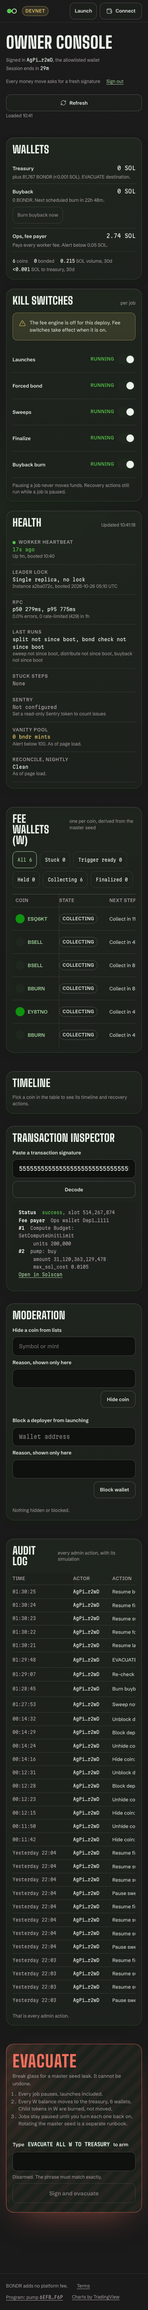
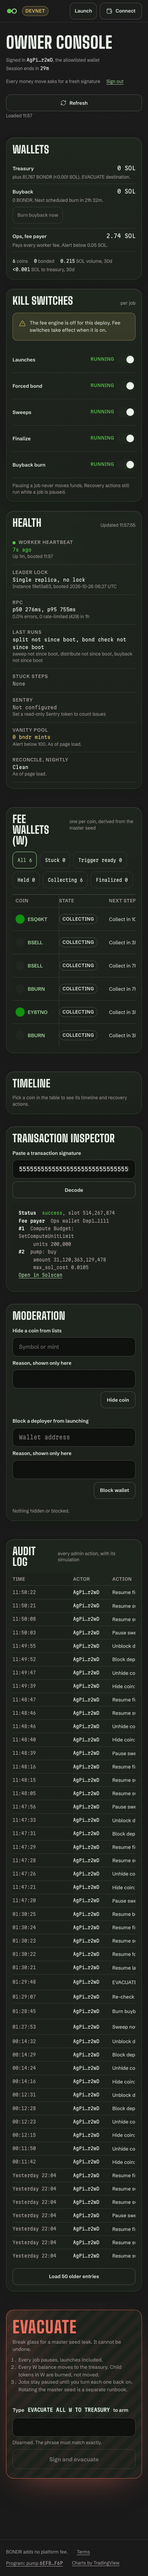
test(06-review): wait for the first health answer before arming EVACUATE; refresh Phase 6 shots
The console shots now carry the review fixes (EVACUATE intro without a count
until simulated, the signed intent text in the dialog).

diff --git a/apps/web/e2e/admin-responsive.e2e.ts b/apps/web/e2e/admin-responsive.e2e.ts
@@ -206,6 +206,8 @@ for (const width of WIDTHS)
       await preConsent(page, admin.address);
       await stubSim(page, { simulate: { json: evacFixture() } });
       await console_(page, { health: { evacuate: "on" } });
+      // Under load the first health poll can still be out, and until it lands the section is simulate-only.
+      await expect(page.getByText(/^Updated /)).toBeVisible({ timeout: 15_000 });
       const box = page.getByRole("region", { name: "EVACUATE" });
       await expect(box.getByText("Disarmed. The phrase must match exactly.")).toBeVisible();
       await targets(page, width);
